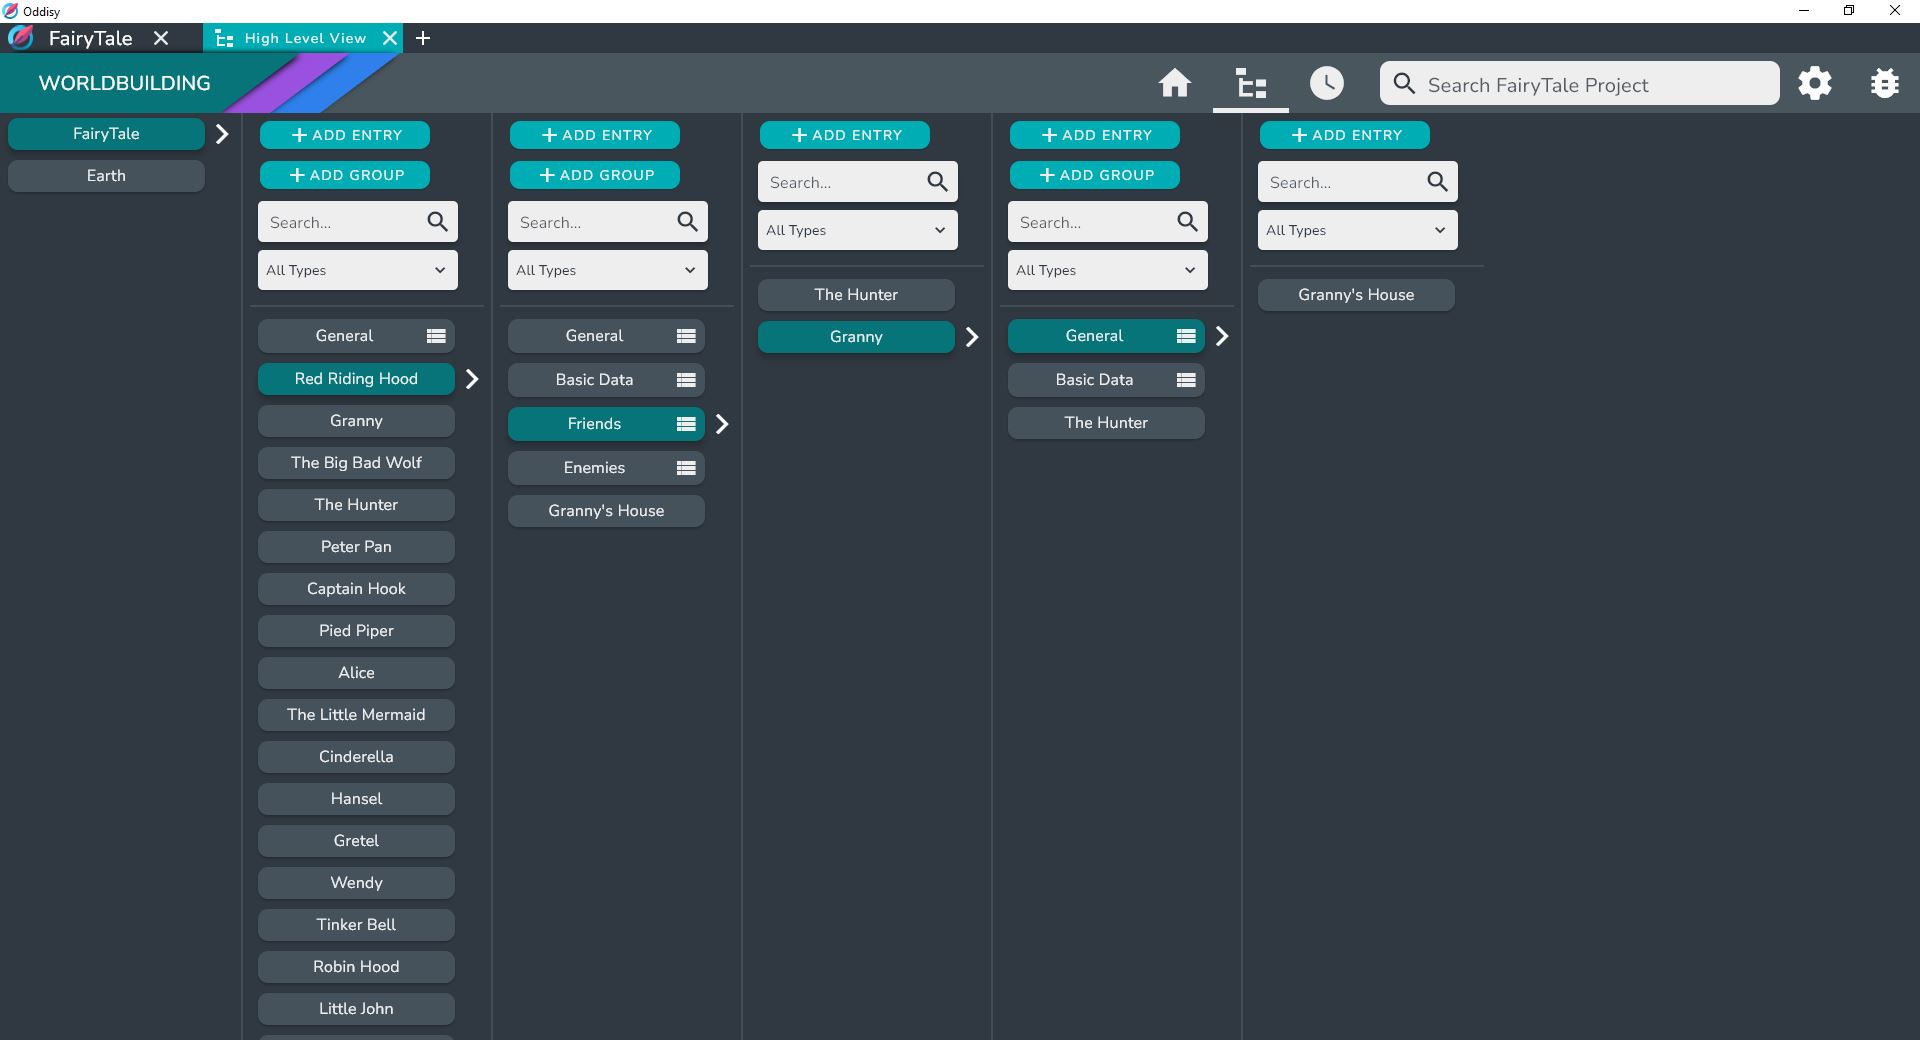
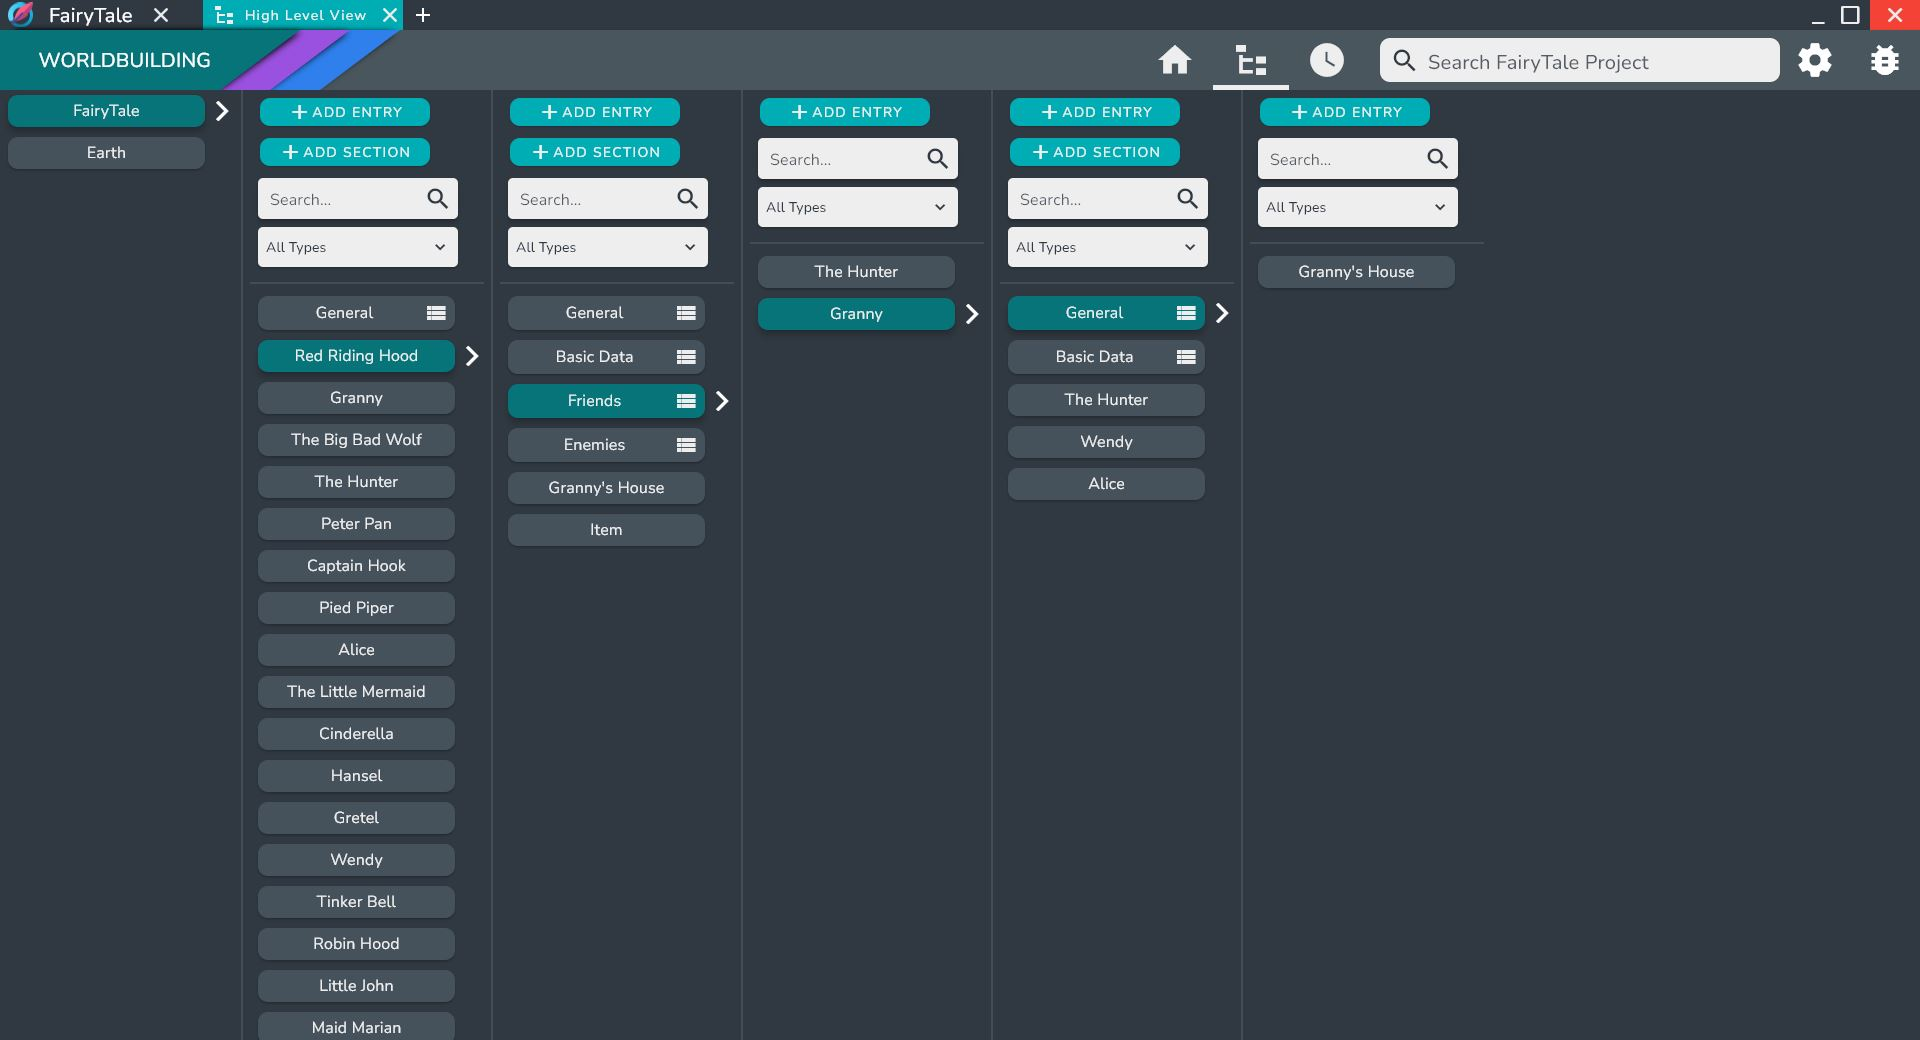
Updated Groups to Sections

Changed region(s): [[0.0, 0.0, 1.0, 1.0]]

diff --git a/oddisy-documentation/docs/Concepts/entries.md b/oddisy-documentation/docs/Concepts/entries.md
@@ -33,7 +33,7 @@ You can edit what Predefined Fields and Sections are included via the Entry Type
 
 You can also create your own Custom Entry Types.
 
-For example, if you were writing a story with multiple superheroes, you could create a superhero type. This type can have custom fields like superpowers, and groups for allies and villains. This makes it easy to quickly populate new entries with information that is similar between multiple entries, minimizing how much effort it takes to create a new entry and ready it to be a valuable part of your Project.
+For example, if you were writing a story with multiple superheroes, you could create a superhero type. This type can have custom fields like superpowers, and Sections for allies and villains. This makes it easy to quickly populate new entries with information that is similar between multiple entries, minimizing how much effort it takes to create a new entry and ready it to be a valuable part of your Project.
 
 ::: -->
 
@@ -51,9 +51,9 @@ A dialog will appear asking for a name for your alias.
 
 There is also a number of copying options that you can configure in the dialog:
 
-* Copy Over Description and Groups - *this will copy the description and all of the groups. However, all groups will be empty if the other options are not checked*
-* Copy and link all Entry Fields - *this will change all of the entry fields in the current entry to [Synced Fields](#synced-fields) and copy over all of the groups*
-* Copy over Entry Links - *this will link the new alias to all of the entries that are linked to the current entry and copy over all of the groups*
+* Copy Over Description and Sections - *this will copy the description and all of the sections. However, all sections will be empty if the other options are not checked*
+* Copy and link all Entry Fields - *this will change all of the entry fields in the current entry to [Synced Fields](#synced-fields) and copy over all of the sections*
+* Copy over Entry Links - *this will link the new alias to all of the entries that are linked to the current entry and copy over all of the sections*
 
 
 ![fullscreen image](../../static/img/concepts/entries/alias_creation.gif)

diff --git a/oddisy-documentation/docs/Views_and_Screens/entry_page.md b/oddisy-documentation/docs/Views_and_Screens/entry_page.md
@@ -192,18 +192,18 @@ Use the New Field Dialog to create a field.
 
 ### Adding an existing Field to a Section
 
-Right click on the field that you want to add to a Section, and select the **Move to Group** option. 
+Right click on the field that you want to add to a Section, and select the **Move to Section** option. 
 
 Select the Section from the list and click done.
 
 ![fullscreen image](../../static/img/views_and_screens/entry_page/add_field_to_group.gif)
 
 
-## Adding Linked Entries to a Group
+## Adding Linked Entries to a Section
 
-### Adding a new Linked Entry to a Group
+### Adding a new Linked Entry to a Section
 
-Click the **+** button next to the Group and select the Entry option. 
+Click the **ADD ENTRY** button under the Section and select the Field option. 
 
 ![fullscreen image](../../static/img/views_and_screens/entry_page/group_name.JPG)
 
@@ -216,7 +216,7 @@ Use the New Entry Selection dialog to create new Entries or select existing ones
 
 Right click on the Linked Entry that you want to add to a Section, then select the add to Section option. 
 
-Select all the groups from the list that you want this Linked Entry to be part of, then click done.
+Select all the Sections from the list that you want this Linked Entry to be part of, then click done.
 
 ![fullscreen image](../../static/img/views_and_screens/entry_page/add_entry_to_group.gif)
 

diff --git a/oddisy-documentation/docs/Views_and_Screens/high_level_view.md b/oddisy-documentation/docs/Views_and_Screens/high_level_view.md
@@ -53,7 +53,7 @@ You can also link entries by right clicking inside the Entry or the Section you 
 
 ## Adding Sections
 
-To add a Sections to an Entry, simply press the **ADD GROUP** button in the column of the Entry or the Section you want to create a new Section in.
+To add a Sections to an Entry, simply press the **ADD SECTION** button in the column of the Entry or the Section you want to create a new Section in.
 
 A dialog asking for the Sections name will pop up. Enter the name and click done.
 
@@ -61,6 +61,6 @@ A dialog asking for the Sections name will pop up. Enter the name and click done
 
 :::tip
 
-You can also link Entries by right clicking inside the Entry or the Section you want to link the entry with, then select the **Add Group** option. 
+You can also link Entries by right clicking inside the Entry or the Section you want to link the entry with, then select the **Add Section** option. 
 
 :::
